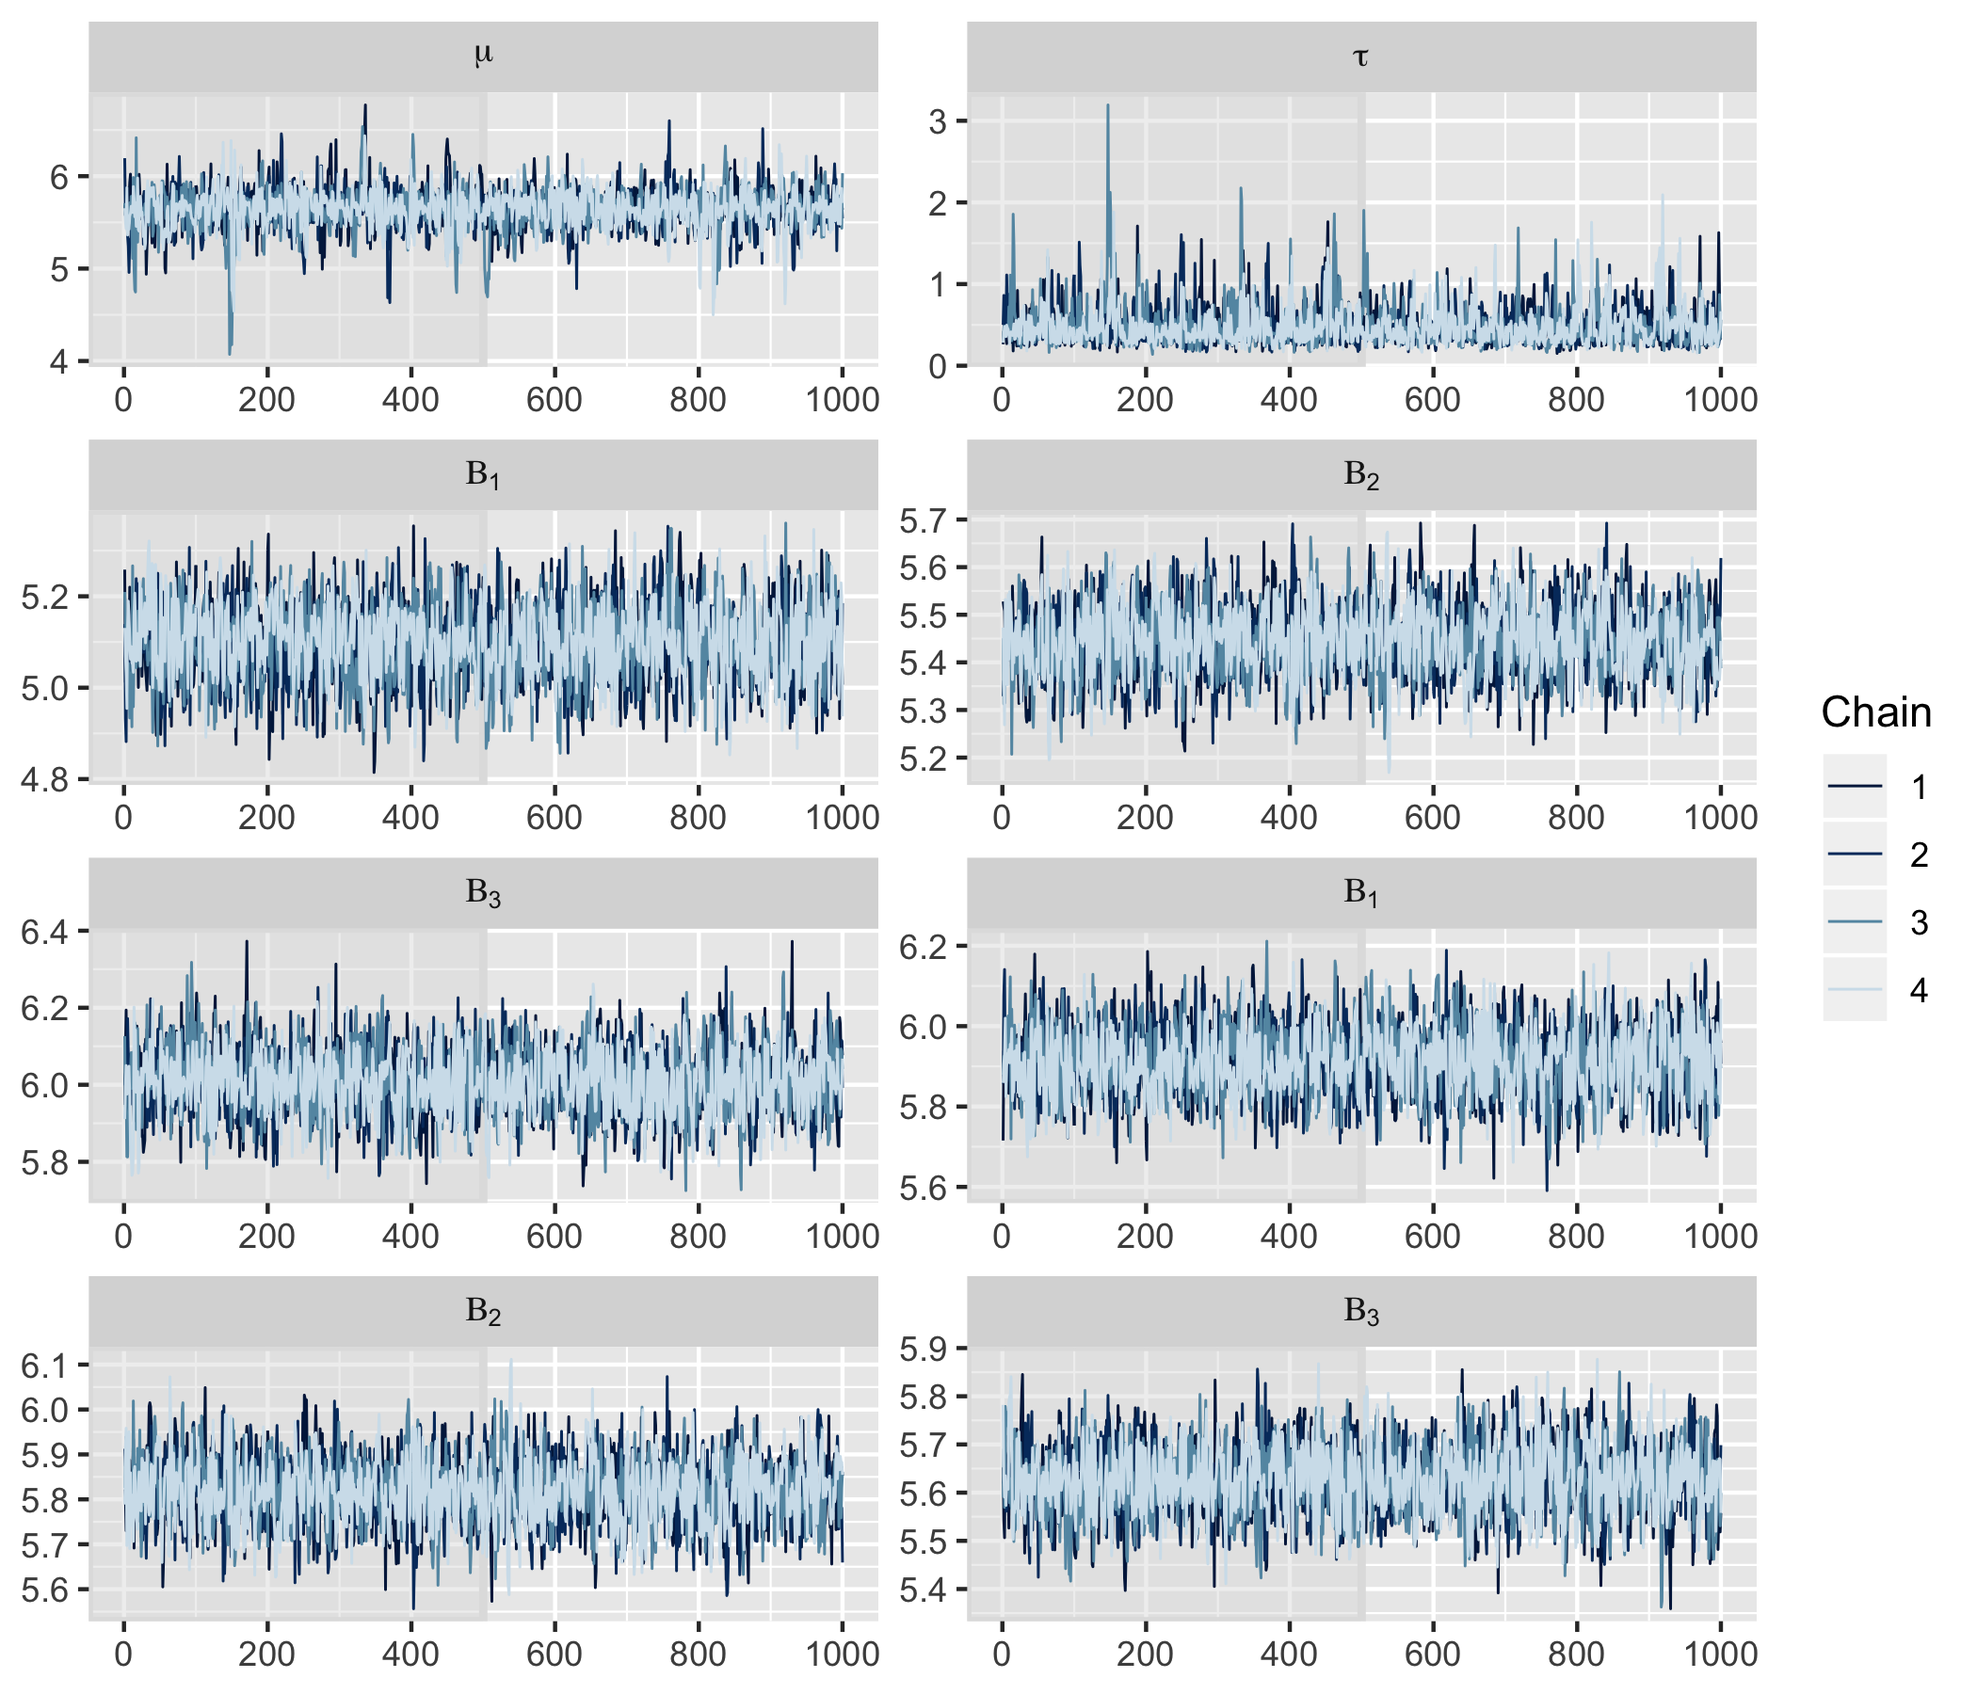
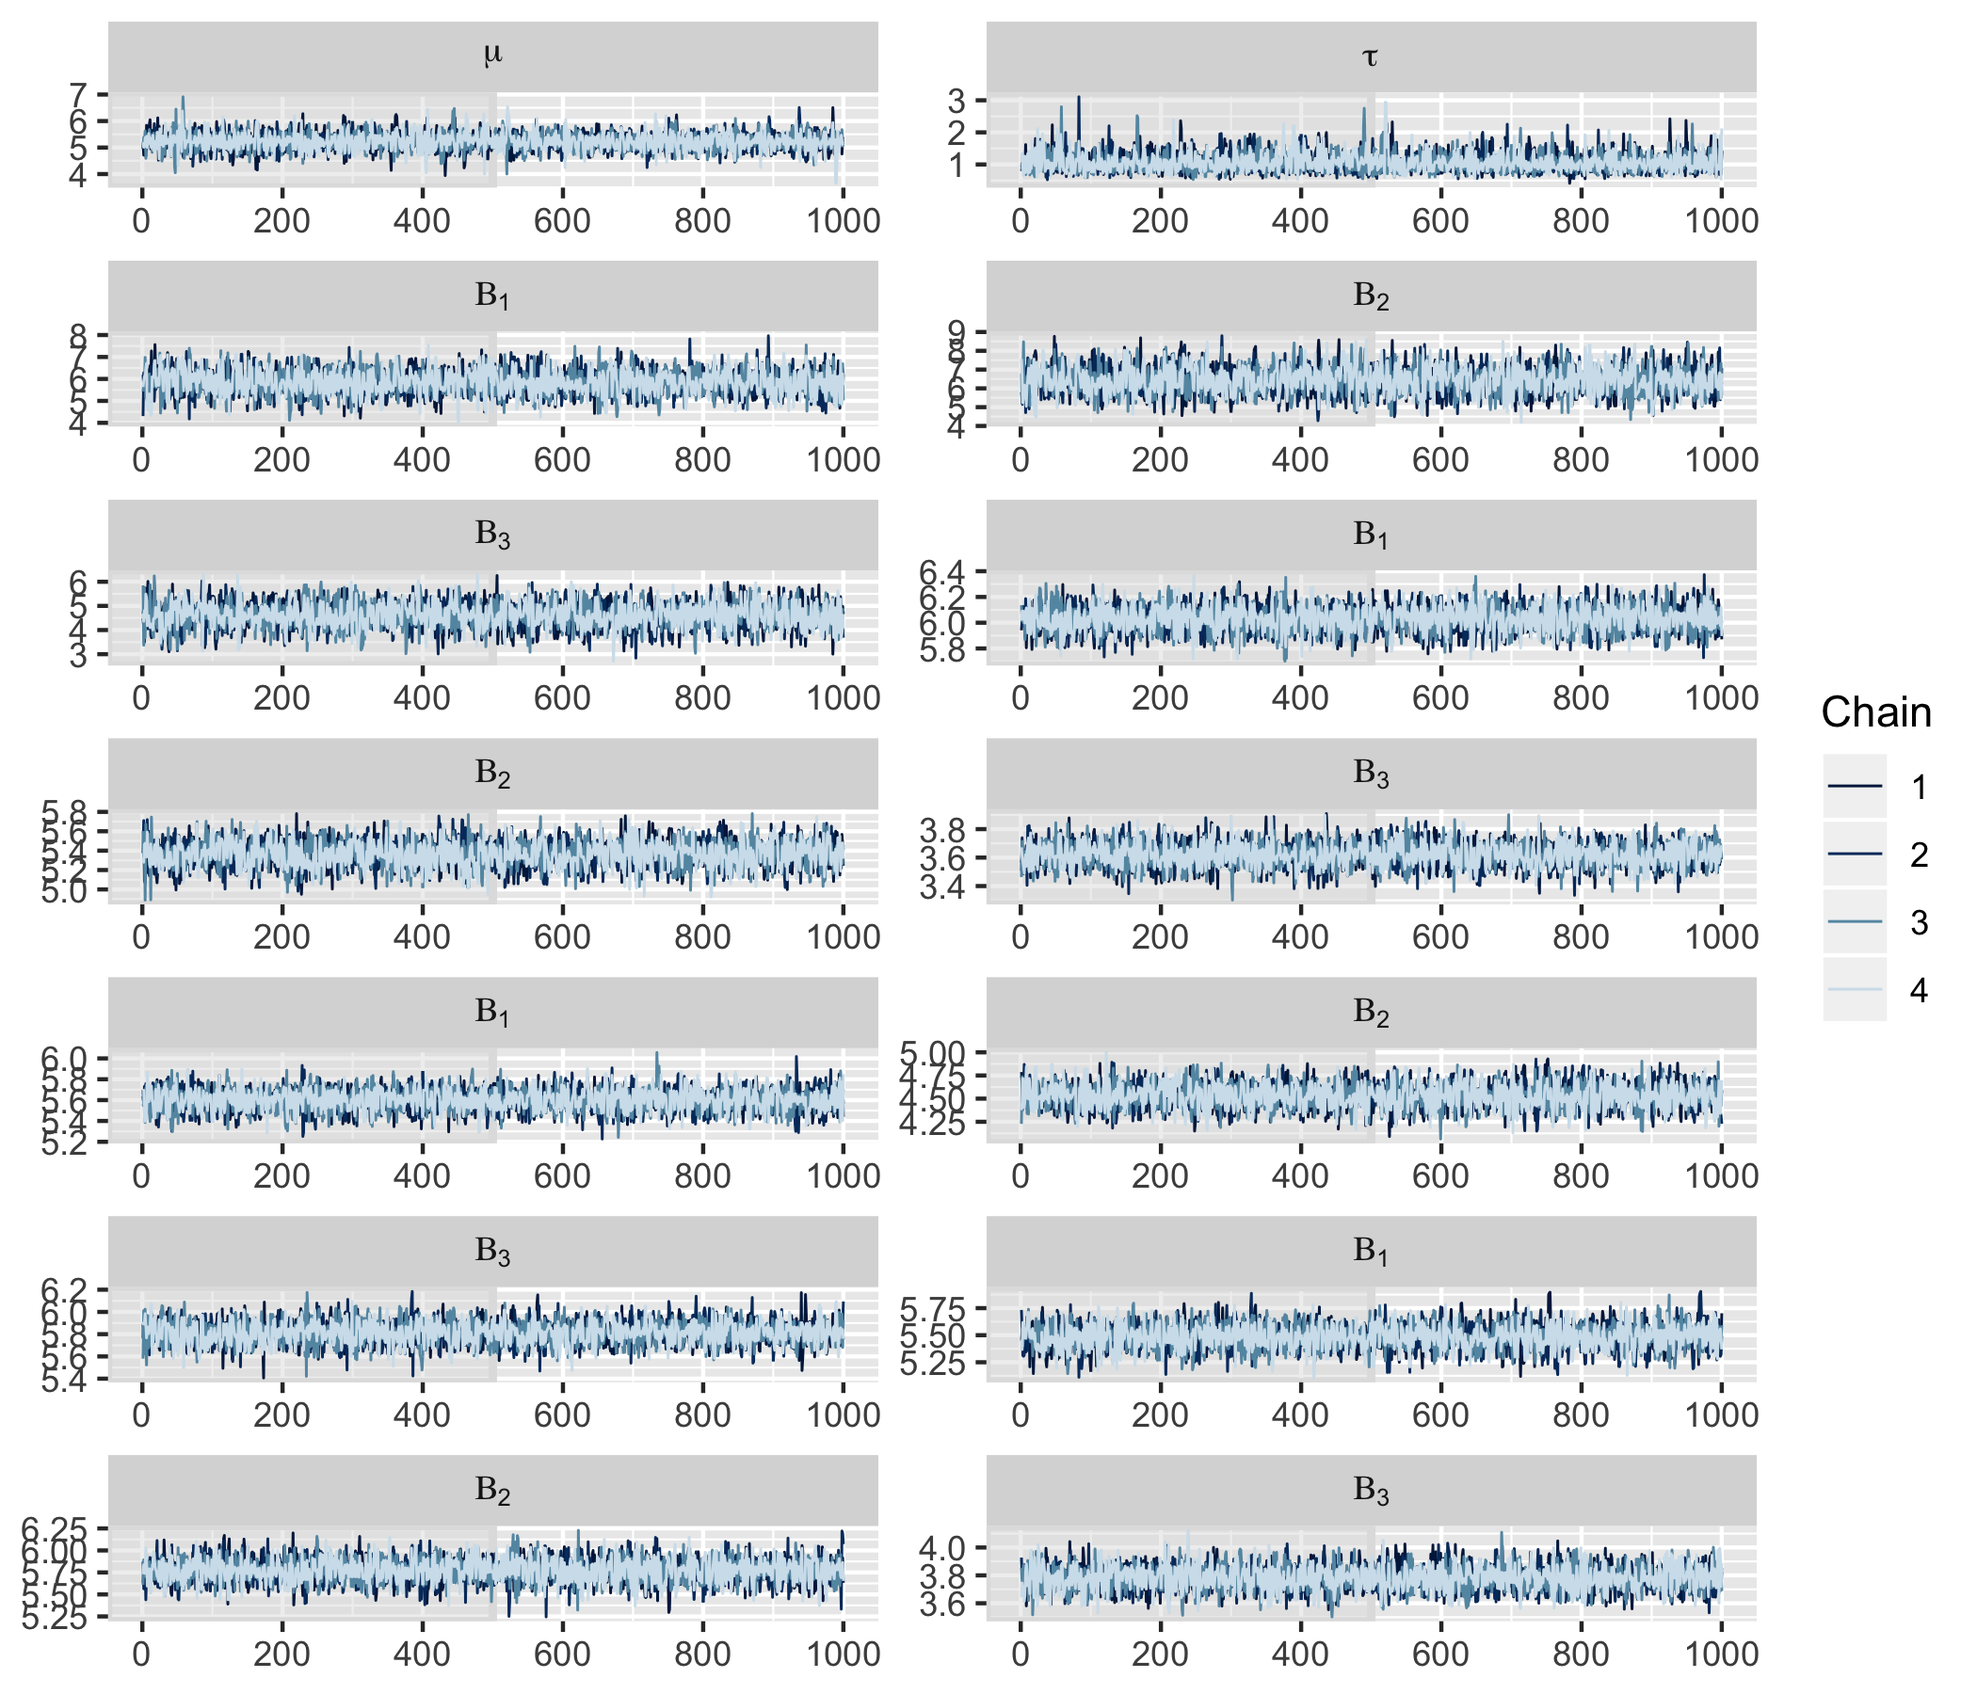
Corrected issue with multiple regression

diff --git a/content/post/stan-hierarchical/index.html b/content/post/stan-hierarchical/index.html
@@ -1,7 +1,7 @@
 ---
 title: "Hierarchical models in Stan"
 author: "Marc Dotson"
-date: '2019-10-18'
+date: '2019-10-24'
 slug: stan-hierarchical
 ---
 
@@ -96,7 +96,7 @@ fit &lt;- stan(
   seed = 42
 )</code></pre>
 <p>Stan takes the three required blocks in <code>regression.stan</code> and creates a Hamiltonian Monte Carlo sampler to produce draws from the posterior.</p>
-<p>Once the model has finished running, we can check diagnostics, including checking for divergences, a powerful indicator of problems with the sampler that is unique to Hamiltonian Monte Carlo.</p>
+<p>Once the model has finished running, we can check diagnostics (here using a helper function <code>stan_utility</code>, though the diagnostic checks can all be done separately), including checking for divergences, a powerful indicator of problems with the sampler that is unique to Hamiltonian Monte Carlo.</p>
 <pre class="r"><code># Diagnostics.
 source(here::here(&quot;Code&quot;, &quot;stan_utility.R&quot;))
 check_all_diagnostics(fit)</code></pre>
@@ -113,7 +113,7 @@ fit %&gt;%
     n_warmup = 500,
     facet_args = list(nrow = 2, labeller = label_parsed)
   )</code></pre>
-<p><img src="Figures/mcmc_trace-00.png" /></p>
+<p><img src="Figures/mcmc_trace-00.png" width="1000" /></p>
 <p>This aligns with what was suggested by the <code>Rhat</code> diagnostic: We have good mixing and clear convergence across all chains for both of our model parameters.</p>
 <p>Finally, we can demonstrate parameter recovery by plotting the marginal posteriors for each of our parameters to confirm that the assumed parameter values used when generating data are within the 95% credible intervals.</p>
 <pre class="r"><code># Recover parameter values.
@@ -136,8 +136,8 @@ fit %&gt;%
     par_values, 
     color = &quot;red&quot;
   )</code></pre>
-<p><img src="Figures/marginals-00.png" /></p>
-<p>The assumed parameter values have been recovered by the model! In summary, we’ve specified a simple regression model in Stan, generated data according to that model, and used the generated data to demonstrate that the model is working as intended.</p>
+<p><img src="Figures/marginals-00.png" width="1000" /></p>
+<p>The assumed parameter values (in red) have been recovered by the model (they are contained within the customery 95% credible interval)! In summary, we’ve specified a simple regression model in Stan, generated data according to that model, and used the generated data to demonstrate that the model is working as intended.</p>
 </div>
 <div id="simple-hierarchical-regression" class="section level2">
 <h2>Simple hierarchical regression</h2>
@@ -170,7 +170,7 @@ model {
     y[n] ~ normal(beta[g[n]], 1);
   }
 }</code></pre>
-<p>In the <code>data</code> block, we now have a vector <code>g</code> indicating which one of <code>K</code> groups each of our <code>N</code> individuals belong to. In the <code>parameter</code> block, we now have a <code>K</code>-dimensional vector of <code>beta</code> parameters, a separate mean for each of the <code>K</code> of groups. In the <code>model</code> block we can see that the likelihood (now within a for loop) is still assumed <code>normal</code>, but now each individual’s observed overall satisfaction has a mean of <code>beta</code> specific to the group they belong to. We also have a population model <code>beta ~ normal(mu, tau)</code> that says these separate, group-level <code>beta</code> coefficients are themselves drawn from a population that is assumed <code>normal</code> with a mean <code>mu</code> and variance <code>tau</code>. This is what we mean by a hierarchy: there is an additional level in our model, the lower-level likelihood and upper-level population model. Finally, our joint model is complete with a prior on the population model parameters (formally referred to as hyperpriors, since they are a prior on a prior): a <code>normal</code> hyperprior on <code>mu</code> and a <code>cauchy</code> hyperprior on <code>tau</code>.</p>
+<p>In the <code>data</code> block, we now have a vector <code>g</code> indicating which one of <code>K</code> groups each of our <code>N</code> individuals belong to. In the <code>parameter</code> block, we now have a <code>K</code>-dimensional vector of <code>beta</code> parameters, a separate mean for each of the <code>K</code> of groups. In the <code>model</code> block we can see that the likelihood (now within a for loop) is still assumed <code>normal</code>, but now each individual’s observed overall satisfaction has a mean of <code>beta</code> specific to the group they belong to. We also have a population model <code>beta ~ normal(mu, tau)</code> that says these separate, group-level <code>beta</code> coefficients are themselves drawn from a population that is assumed <code>normal</code> with a mean <code>mu</code> and variance <code>tau</code>. This is what we mean by a hierarchy: there is an additional level in our model, the lower-level likelihood and upper-level population model. Finally, our joint model is complete with a prior on the population model parameters (formally referred to as hyperpriors, since they are priors on a prior): a <code>normal</code> hyperprior on <code>mu</code> and a <code>cauchy</code> hyperprior on <code>tau</code>.</p>
 <p>We can again translate this Stan script, <code>hierarchical_regression_01.stan</code>, into <code>data</code> and <code>generated quantities</code> blocks called <code>generate_data_01.stan</code> to use Stan to generate data for us.</p>
 <pre class="stan"><code>// Index and hyperparameter values.
 data {
@@ -186,7 +186,7 @@ generated quantities {
   vector[N] y;    // Vector of observations.
   vector[K] beta; // Vector of group intercepts.
 
-  // Assign to a group, draw parameter values, generate data.
+  // Draw parameter values and generate data.
   for (k in 1:K) {
     beta[k] = normal_rng(mu, tau);
   }
@@ -194,7 +194,7 @@ generated quantities {
     y[n] = normal_rng(beta[g[n]], 1);
   }
 }</code></pre>
-<p>Let’s generate data according this hierarchical model by calling this Stan script from R.</p>
+<p>Note that the <code>data</code> block now includes the assumed parameter values for the <em>hyperpriors</em> as data with <code>beta</code> being drawn alongside <code>y</code> in the <code>generated quantities</code> block. Let’s call this Stan script from R to generate data according to a hierarchical model.</p>
 <pre class="r"><code># Specify data and hyperparameter values.
 sim_values &lt;- list(
   N = 100,                            # Number of individuals.
@@ -262,7 +262,7 @@ fit %&gt;%
     n_warmup = 500,
     facet_args = list(nrow = 5, labeller = label_parsed)
   )</code></pre>
-<p><img src="Figures/mcmc_trace-01.png" /></p>
+<p><img src="Figures/mcmc_trace-01.png" width="1000" /></p>
 <p>Finally, we can demonstrate parameter recovery for both the population-level hyperparameters and the group-level parameters.</p>
 <pre class="r"><code># Recover hyperparameter and parameter values.
 hyperpar_values &lt;- tibble(
@@ -285,7 +285,7 @@ fit %&gt;%
     scales = &quot;free&quot;
   ) +
   geom_vline(aes(xintercept = values), hyperpar_values, color = &quot;red&quot;)</code></pre>
-<p><img src="Figures/marginals-01a.png" /></p>
+<p><img src="Figures/marginals-01a.png" width="1000" /></p>
 <pre class="r"><code>fit %&gt;%
   spread_draws(beta[n]) %&gt;%
   ggplot(aes(x = beta, y = n)) +
@@ -296,7 +296,7 @@ fit %&gt;%
     scales = &quot;free&quot;
   ) +
   geom_vline(aes(xintercept = beta), par_values, color = &quot;red&quot;)</code></pre>
-<p><img src="Figures/marginals-01b.png" /></p>
+<p><img src="Figures/marginals-01b.png" width="1000" /></p>
 <p>Both the assumed hyperparameter and parameter values have been recovered by the model! To summarize, we have now specified a simple hierarchical regression model in Stan, generated data according to that model, and used the generated data to demonstrate that the model is working.</p>
 </div>
 <div id="multiple-hierarchical-regression" class="section level2">
@@ -334,14 +334,13 @@ model {
     y[n] ~ normal(Beta[g[n],] * X[n,]&#39;, 1);
   }
 }</code></pre>
-<p>In the <code>data</code> block, we now have an index <code>I</code> specifiying the number of observation-level covariates and an <code>N x I</code> matrix <code>X</code> that contains those covariates. In the <code>parameters</code> block, <code>Beta</code> is now a <code>K x I</code> matrix of coefficients rather than a vector. The <code>model</code> block changes accordingly, with the population model in a for loop.</p>
+<p>In the <code>data</code> block, we now have an index <code>I</code> specifying the number of observation-level covariates and an <code>N x I</code> matrix <code>X</code> that contains those covariates (including an intercept). In the <code>parameters</code> block, <code>Beta</code> is now a <code>K x I</code> matrix of coefficients rather than a vector. The <code>model</code> block changes accordingly, with the population model in a for loop.</p>
 <p>We can again translate this Stan script, <code>hierarchical_regression_02.stan</code>, into <code>data</code> and <code>generated quantities</code> blocks called <code>generate_data_02.stan</code> to use Stan to generate data, including <code>X</code>, for us.</p>
 <pre class="stan"><code>// Index values, observations, and covariates.
 data {
   int&lt;lower = 1&gt; N;               // Number of individuals.
   int&lt;lower = 1&gt; K;               // Number of groups.
   int&lt;lower = 1&gt; I;               // Number of observation-level covariates.
-  // int&lt;lower = 1&gt; J;               // Number of population-level covariates.
 
   int&lt;lower = 1, upper = K&gt; g[N]; // Vector of group assignments.
   real mu;                        // Mean of the population model.
@@ -354,7 +353,7 @@ generated quantities {
   matrix[N, I] X;                 // Matrix of observation-level covariates.
   matrix[K, I] Beta;              // Matrix of group-level coefficients.
 
-  // Assign to a group, draw parameter values, generate data.
+  // Draw parameter values and generate data.
   for (k in 1:K) {
     for (i in 1:I) {
       Beta[k, i] = normal_rng(mu, tau);
@@ -362,7 +361,8 @@ generated quantities {
   }
   for (n in 1:N) {
     for (i in 1:I) {
-      X[n, i] = uniform_rng(1, 7);
+      if (i == 1) X[n, i] = 1;
+      if (i != 1) X[n, i] = uniform_rng(1, 7);
     }
     y[n] = normal_rng(Beta[g[n],] * X[n,]&#39;, 1);
   }
@@ -417,7 +417,7 @@ fit &lt;- stan(
   control = list(adapt_delta = 0.99),
   seed = 42
 )</code></pre>
-<p>Note that we’ve preemptively set <code>adapt_delta = 0.99</code> given the previous model. Let’s confirm things have worked by running diagnostics.</p>
+<p>Note that we’ve preemptively set <code>adapt_delta = 0.99</code> given the previous model’s performance. Let’s confirm things have worked by running diagnostics.</p>
 <pre class="r"><code># Diagnostics.
 source(here::here(&quot;Code&quot;, &quot;stan_utility.R&quot;))
 check_all_diagnostics(fit)</code></pre>
@@ -437,9 +437,13 @@ fit %&gt;%
   mcmc_trace(
     pars = c(&quot;mu&quot;, &quot;tau&quot;, par_string),
     n_warmup = 500,
-    facet_args = list(nrow = 4, ncol = 2, labeller = label_parsed)
+    facet_args = list(
+      nrow = (data$I * data$K + 2) / 2,
+      ncol = 2,
+      labeller = label_parsed
+    )
   )</code></pre>
-<p><img src="Figures/mcmc_trace-02.png" /></p>
+<p><img src="Figures/mcmc_trace-02.png" width="1000" /></p>
 <p>Finally, we can demonstrate parameter recovery.</p>
 <pre class="r"><code># Recover hyperparameter and parameter values.
 hyperpar_values &lt;- tibble(
@@ -448,9 +452,12 @@ hyperpar_values &lt;- tibble(
 )
 
 par_values &lt;- tibble(
-  n = rep(1:(data$K), data$I),
-  beta = as.vector(sim_Beta)
-)
+  n = sort(rep(1:(data$K), data$I)),
+  i = rep(1:(data$I), data$K),
+  .variable = str_c(&quot;Beta&quot;, &quot;_&quot;, n, &quot;_&quot;, i),
+  values = as.vector(t(matrix(sim_Beta, ncol = data$I)))
+) %&gt;%
+  select(.variable, values)
 
 fit %&gt;%
   gather_draws(mu, tau) %&gt;%
@@ -462,19 +469,21 @@ fit %&gt;%
     scales = &quot;free&quot;
   ) +
   geom_vline(aes(xintercept = values), hyperpar_values, color = &quot;red&quot;)</code></pre>
-<p><img src="Figures/marginals-02a.png" /></p>
+<p><img src="Figures/marginals-02a.png" width="1000" /></p>
 <pre class="r"><code>fit %&gt;%
-  spread_draws(Beta[n, i]) %&gt;%
-  ggplot(aes(x = Beta, y = i)) +
+  gather_draws(Beta[n, i]) %&gt;%
+  unite(.variable, .variable, n, i) %&gt;%
+  ggplot(aes(x = .value, y = .variable)) +
   geom_halfeyeh(.width = .95) +
+  geom_vline(aes(xintercept = values), par_values, color = &quot;red&quot;) +
   facet_wrap(
-    ~ n,
-    nrow = 3,
+    ~ .variable,
+    nrow = data$K,
+    ncol = data$I,
     scales = &quot;free&quot;
-  ) +
-  geom_vline(aes(xintercept = beta), par_values, color = &quot;red&quot;)</code></pre>
-<p><img src="Figures/marginals-02b.png" /></p>
-<p>The models are okay, but a little off. In particular, there are a few more things we should consider:</p>
+  )</code></pre>
+<p><img src="Figures/marginals-02b.png" width="1000" /></p>
+<p>The model looks good. There are a few more things we should consider:</p>
 <ul>
 <li>Allowing for covariates for the population-level model.</li>
 <li>Reparameterizing our hierarchical model such that the posterior geometry is easier to navigate. The non-centered parameterization is commonly used, imposing a deterministic transformation between layers in the hierarchy.</li>

diff --git a/themes/hyde/static/css/hyde.css b/themes/hyde/static/css/hyde.css
@@ -36,12 +36,12 @@ html {
 }
 @media (min-width: 48em) {
   html {
-    font-size: 16px;
+    font-size: 14px;
   }
 }
 @media (min-width: 58em) {
   html {
-    font-size: 20px;
+    font-size: 18px;
   }
 }
 

diff --git a/content/about.md b/content/about.md
@@ -1,7 +1,7 @@
 ---
 title: "Two brothers with a mostly Bayesian focus"
 slug: about
-date: '2019-07-30'
+date: '2019-10-22'
 type: page
 ---
 
